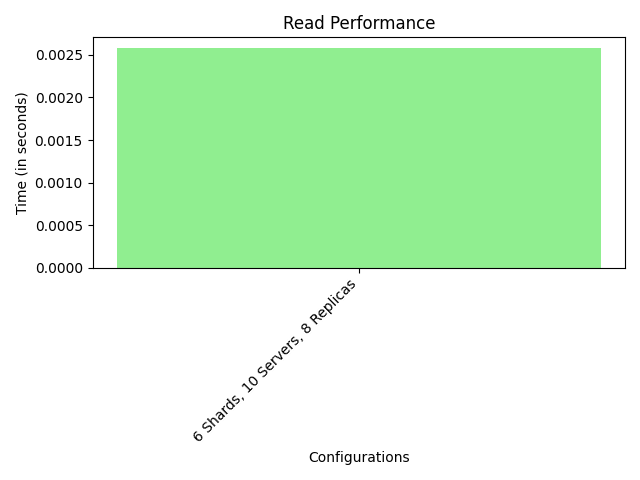
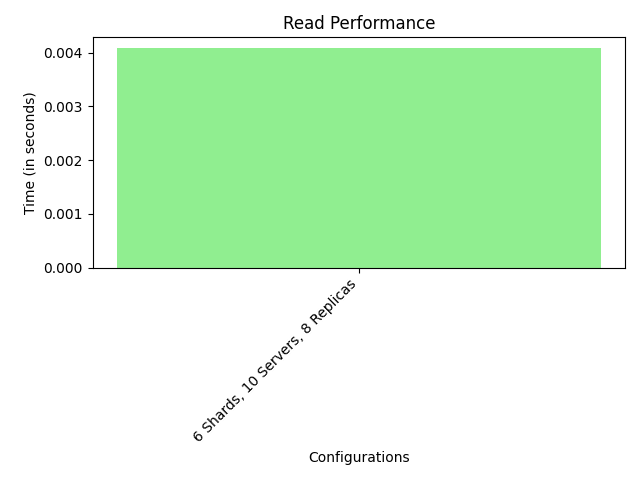
modified hashfunction and redid the analysis

Changed region(s): [[0.0312, 0.1875, 0.125, 0.5], [0.0625, 0.5312, 0.125, 0.5938], [0.0625, 0.0938, 0.125, 0.125]]

diff --git a/analysis.py b/analysis.py
@@ -53,7 +53,7 @@ def performRW(numOfShards, numOfServers, numOfReplicas):
     }
 
     print("Sending init request...")
-    response = requests.post("http://localhost:5000/init", json=payload)
+    response = requests.post("http://localhost:3001/init", json=payload)
     if response.status_code != 200:
         print("Error in init")
         print(response.text)
@@ -66,7 +66,7 @@ def performRW(numOfShards, numOfServers, numOfReplicas):
     for i in range(numOfRW):
         payload = {"Stud_id": i, "Stud_name": f"Student{i}", "Stud_marks": str(i % 100)}
         start_time = time.time()
-        response = requests.post("http://localhost:5000/write", json=payload)
+        response = requests.post("http://localhost:3001/write", json=payload)
         writeTime += time.time() - start_time
         if response.status_code != 200:
             print(f"Error in writing for Stud_id {i}: {response.text}")
@@ -77,7 +77,7 @@ def performRW(numOfShards, numOfServers, numOfReplicas):
     for i in range(numOfRW):
         payload = {"Stud_id": {"low": i, "high": i + 1}}
         start_time = time.time()
-        response = requests.post("http://localhost:5000/read", json=payload)
+        response = requests.post("http://localhost:3001/read", json=payload)
         readTime += time.time() - start_time
         if response.status_code != 200:
             print(f"Error in reading for range {i}-{i+1}: {response.text}")

diff --git a/loadbalancer/internal/consistenthashmap/main.go b/loadbalancer/internal/consistenthashmap/main.go
@@ -5,16 +5,24 @@ const (
 	K     = 9
 )
 
-type ConsistentHashMap struct {
-	virtualServers [Slots]int
+// New hash functions
+func H(i uint32) uint32 {
+	i = (((i >> 16) ^ i) * 0x45d9f3b) >> 16 ^ i
+	return i
 }
 
+func assistH(i, j uint32) uint32 {
+	return H(i + H(j))
+}
 func hashRequest(i int) int {
-	return i*i + 2*i + 17
+	return int(assistH(uint32(i), uint32(i))) 
 }
 
 func hashVirtualServer(i, j int) int {
-	return i*i + j*j + 2*j + 25
+	return int(assistH(uint32(i), uint32(j))) 
+}
+type ConsistentHashMap struct {
+	virtualServers [Slots]int
 }
 
 func (hm *ConsistentHashMap) Init() {
@@ -35,6 +43,9 @@ func (hm *ConsistentHashMap) findEmptyServerSlot(hashValue int) int {
 	}
 	return slot
 }
+
+// Updated to use the Phi hash function
+
 
 func (hm *ConsistentHashMap) AddServer(serverID int) {
 	for j := 0; j < K; j++ {

diff --git a/README.md b/README.md
@@ -9,7 +9,25 @@
 3. To stop the containers, run `make stop`
 
 ---
+# Hash Function used:
+We used a hash function, which , after careful testing, returned a balanced output for the loadbalancer,  enhancing the overall throughput of the system.
+```bash
+func H(i uint32) uint32 {
+	i = (((i >> 16) ^ i) * 0x45d9f3b) >> 16 ^ i
+	return i
+}
 
+func assistH(i, j uint32) uint32 {
+	return H(i + H(j))
+}
+func hashRequest(i int) int {
+	return int(assistH(uint32(i), uint32(i))) 
+}
+
+func hashVirtualServer(i, j int) int {
+	return int(assistH(uint32(i), uint32(j))) 
+}
+```
 
 # Distributed Database Performance Analysis
 
@@ -35,8 +53,8 @@ Below are the results showing the average read and write times for each configur
 
 ### Configuration 1: 4 Shards, 6 Servers, 3 Replicas
 
-- Average Write Time: 0.001972928476333618 seconds
-- Average Read Time: 0.002262153697013855 seconds
+- Average Write Time: 0.002496219277381897 seconds
+- Average Read Time: 0.0030115324020385742 seconds
 
 ![Write Performance for Configuration 1](testing/images/write_1.png)
 
@@ -44,8 +62,8 @@ Below are the results showing the average read and write times for each configur
 
 ### Configuration 2: 4 Shards, 6 Servers, 6 Replicas
 
-- Average Write Time: 0.0023517378568649293 seconds
-- Average Read Time: 0.0033333791494369507 seconds
+- Average Write Time: 0.0024059977769851685 seconds
+- Average Read Time: 0.003032594871520996 seconds
 
 ![Write Performance for Configuration 2](testing/images/write_2.png)
 
@@ -53,8 +71,8 @@ Below are the results showing the average read and write times for each configur
 
 ### Configuration 3: 6 Shards, 10 Servers, 8 Replicas
 
-- Average Write Time: 0.0020610308408737185 seconds
-- Average Read Time: 0.0025781458139419555 seconds
+- Average Write Time: 0.0031687368392944336 seconds
+- Average Read Time: 0.0040833707571029665 seconds
 
 ![Write Performance for Configuration 3](testing/images/write_3.png)
 
